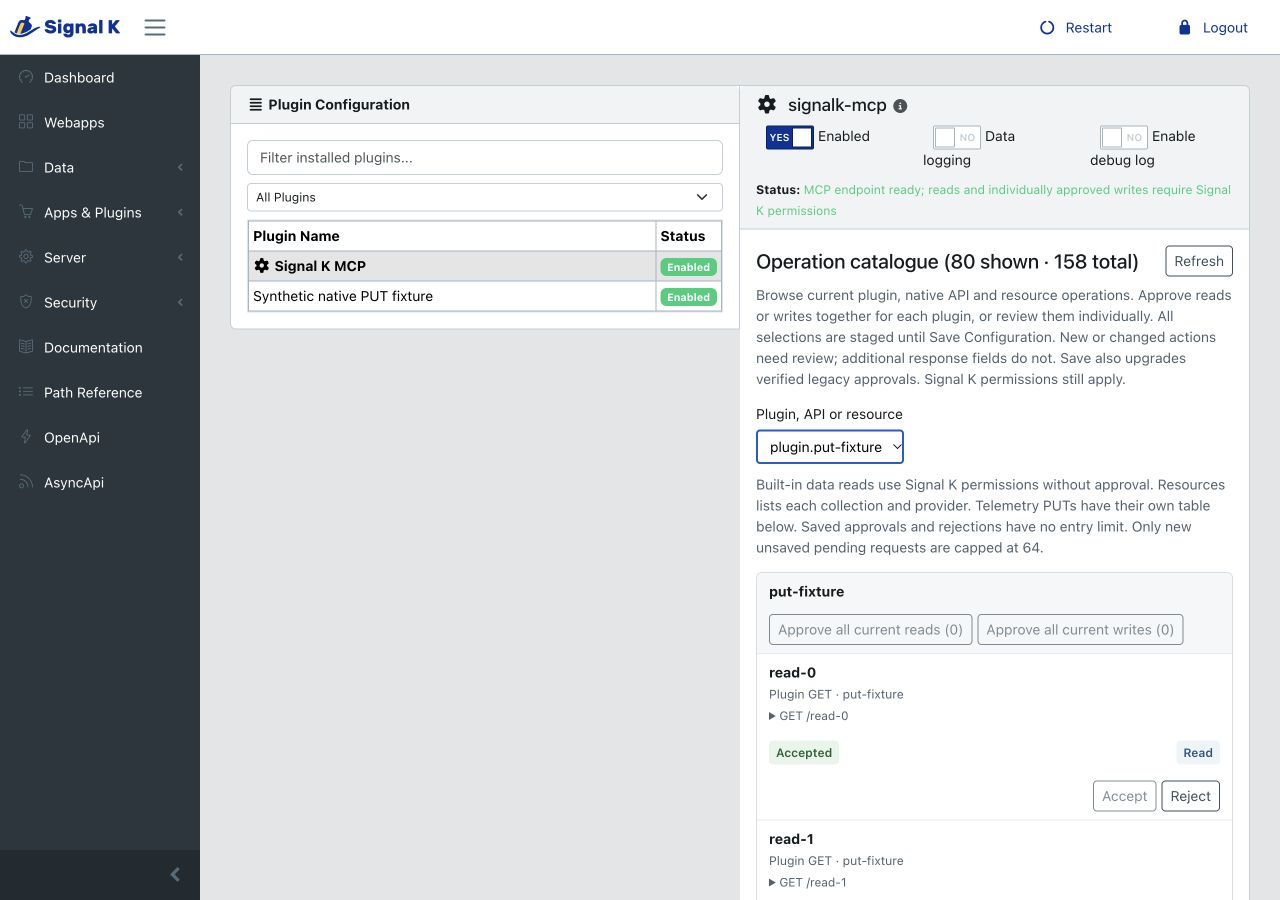
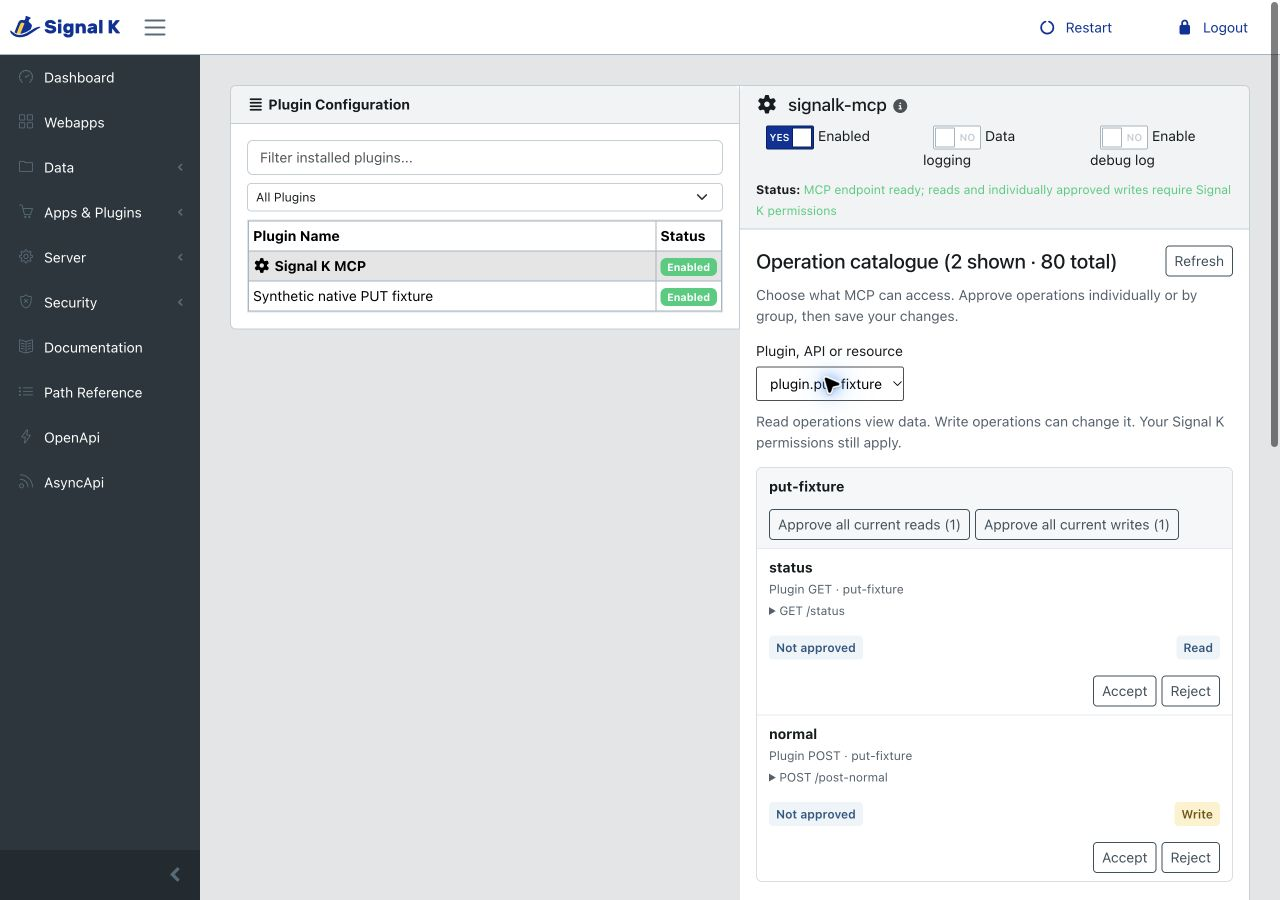
fix(ui): simplify settings descriptions

diff --git a/src/config.ts b/src/config.ts
@@ -81,14 +81,13 @@ export const schema = {
       type: "string",
       title: "HTTPS certificate hostname (optional)",
       description:
-        "Used to verify the plugin’s requests back to Signal K when Signal K itself serves HTTPS. Enter the hostname on its certificate, for example boat.example, if the certificate does not cover the local IP address. Leave blank for HTTP or HTTPS handled by a reverse proxy. Do not enter https://, a port or a certificate file path.",
+        "Usually leave this blank. If Signal K serves HTTPS directly, enter its certificate hostname, such as boat.example, without https:// or a port.",
       maxLength: 253,
     },
     staleAfterSeconds: {
       type: "integer",
       title: "Stale after (seconds)",
-      description:
-        "Mark measurements older than this as stale. Values are forwarded unchanged.",
+      description: "Mark data as outdated after this many seconds.",
       default: 300,
       minimum: 1,
       maximum: 86400,
@@ -105,6 +104,6 @@ export const uiSchema = {
       },
     },
     "ui:help":
-      "Normally use the Operation catalogue above. This advanced list approves GET reads only. Existing manual approvals are preserved. A matching rejected request blocks a manual approval too.",
+      "Add read access for operations missing from the catalogue. Rejected operations stay blocked.",
   },
 };

diff --git a/src/approvals.ts b/src/approvals.ts
@@ -468,7 +468,7 @@ export class ApprovalRequests {
       title: "Operation requests",
       additionalProperties: false,
       description:
-        "Refresh this page after a blocked MCP request. Review each plugin operation, exact native PUT target or resource write, select Accept or Reject, then Save Configuration. Check the target, provider, meaning and input constraints. Signal K permissions still apply. Unsaved requests are lost when the plugin restarts. Up to 64 new unsaved pending requests are retained. Saved decisions do not count toward this limit.",
+        "Review requested operations, choose Accept or Reject, then save your changes. Refresh to see new requests.",
       properties: Object.fromEntries(
         Object.entries(this.reviews).map(([key, review]) => [
           key,

diff --git a/src/put-rules.ts b/src/put-rules.ts
@@ -32,7 +32,7 @@ export const putRuleSchema = z
   })
   .strict();
 export const putRuleMeaning =
-  "Standing approval for current and future matching telemetry paths. Signal K selects the handler. Current native permissions, supportsPut metadata and value constraints apply on every call; metadata changes do not invalidate this rule.";
+  "Approves matching paths now and in the future, even if their settings change. Signal K permissions and current value limits still apply.";
 export function matchesPutPattern(pattern: string, path: string): boolean {
   if (
     !putPatternSchema.safeParse(pattern).success ||

diff --git a/docs/native-puts.md b/docs/native-puts.md
@@ -37,7 +37,7 @@ Both MCP discovery tools require a native write-capable identity and native path
 
 Call `put_value` with `{ "path": "electrical.switches.cabin.state", "value": false }`. Input validation, fresh native authentication, native path PUT permission and saved approval precede dispatch. There is no unit conversion, batch mutation or arbitrary HTTP route.
 
-**Telemetry PUTs** is a separate table below the operation catalogue. Add a path manually, inspect its metadata/value contract, select **Accept and add**, then **Save Configuration**. Exact approvals retain their metadata/value binding; changed meaning or constraints need a new review. Eligible blocked calls can still queue a pending row without submitting the command. Both tables share one native Save. Saved decisions have no entry-count limit; only new unsaved pending requests are capped at 64.
+**Telemetry PUTs** is a separate table below the operation catalogue. Add a path manually, select **Preview** to check its details and allowed values, select **Accept and add**, then **Save Configuration**. Exact approvals retain their metadata/value binding; changed meaning or constraints need a new review. Eligible blocked calls can still queue a pending row without submitting the command. Both tables share one native Save. Saved decisions have no entry-count limit; only new unsaved pending requests are capped at 64.
 
 Administrators may instead enter a **standing wildcard rule**. `*` matches one complete dot-separated segment; a trailing `**` matches one or more descendant segments. A literal root is required: `electrical.switches.*.state` and `steering.autopilot.**` are valid; `**`, partial-segment globs and metadata paths are not. Rules apply to current and future matching paths, including future metadata changes. They do not require a currently discoverable match. Every invocation still has an exact path and is checked against current `supportsPut`, supported value constraints, caller identity and native PUT permission. Rules cannot authorize plugin HTTP operations, Resources writes or other vessel contexts.
 

diff --git a/docs/verification.md b/docs/verification.md
@@ -336,3 +336,7 @@ Rebased the catalogue and telemetry approval work onto `41fe20e` from `main` (cu
 Removed the 64-entry cap from saved reviews, bulk staging, native configuration validation and advanced manual read approvals. The shared request queue now counts only new unsaved pending requests and still rejects the 65th distinct request with `APPROVAL_QUEUE_FULL`. Existing saved entries, including pending and rejected decisions, do not consume that queue; duplicates do not consume additional slots. Native Save/restart resets the in-memory queue count. Contract validation, rejection precedence and native permissions remain unchanged.
 
 `npm run check` passed on Node 24.22.1 / Signal K 2.34.0: 157 portable passes and 69 native passes, with four optional skips. Regression checks save 150 reviews and 100 manual approvals, retain rejection decisions, cap new requests independently of saved entries, and save/load 101 decisions through a real native administrator configuration endpoint. A separate native Admin UI fixture staged 80 plugin reads and saved them once; all 80 remained accepted after reload. The updated guidance rendered without horizontal overflow at 390 and 1280 pixels. Only synthetic providers were used. `git diff --check` passed.
+
+## Shorter settings guidance (2026-11-12)
+
+Simplified the catalogue, telemetry path, wildcard and advanced settings descriptions. Removed queue-size, migration and handler details from general help while retaining the wildcard scope and the information needed to review operations. This is a copy-only update. `npm run check` passed with 157 portable and 69 native tests (four optional skips) on Node 24.22.1 / Signal K 2.34.0. Synthetic native Admin UI checks at 390 and 1280 pixels verified readable copy without horizontal page overflow; catalogue and telemetry screenshots were refreshed.
